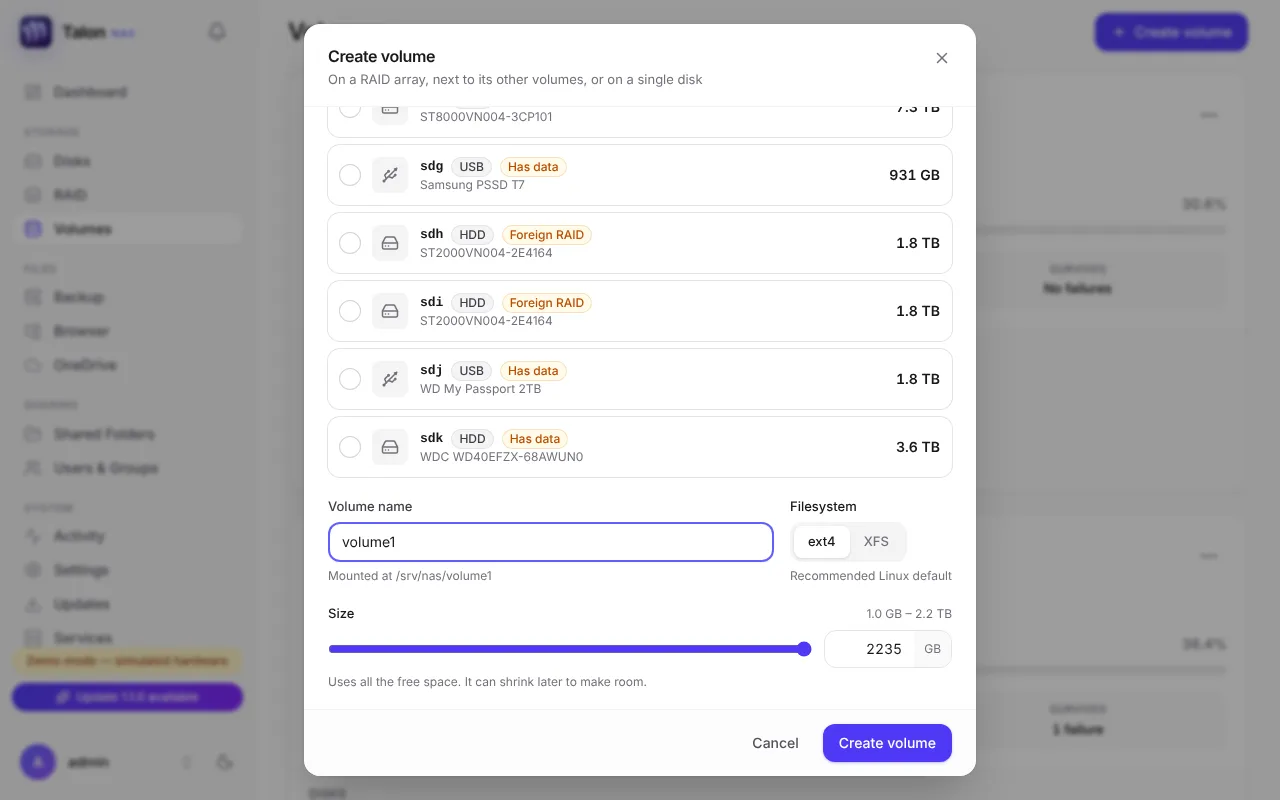
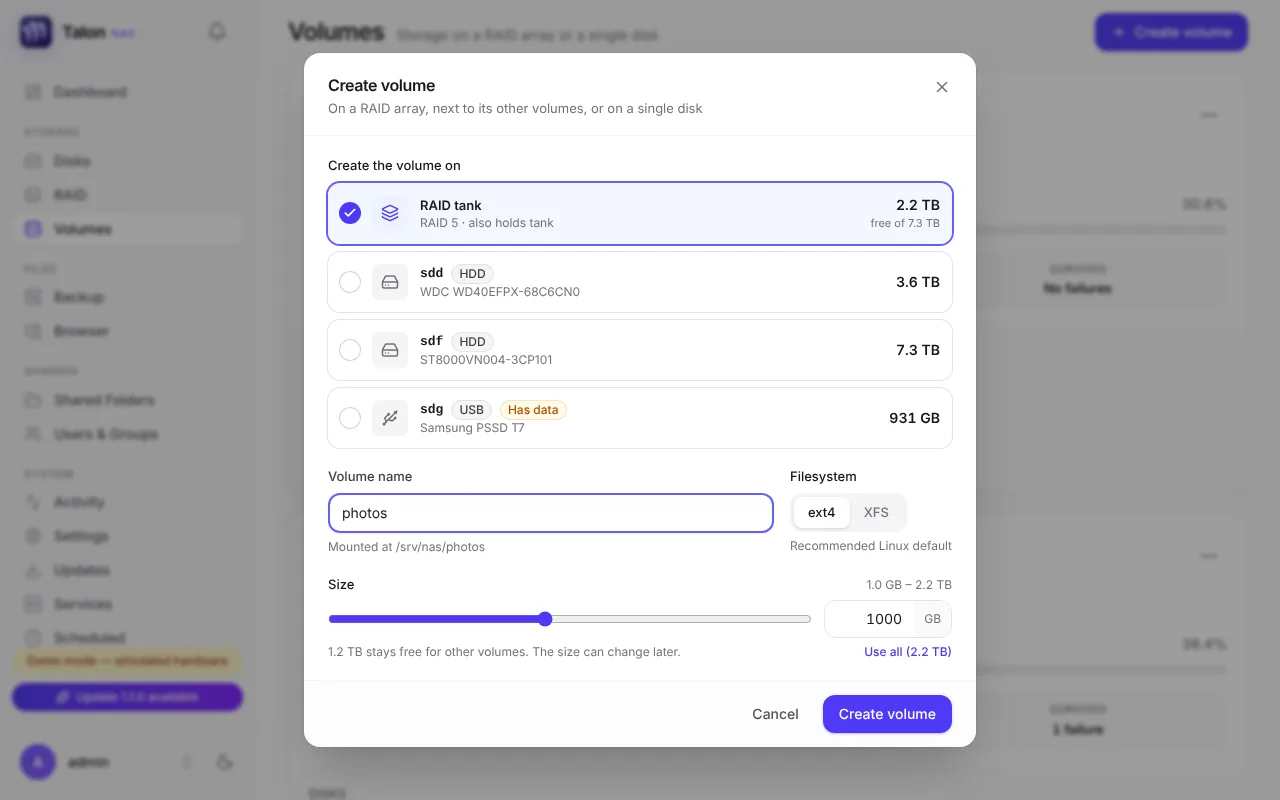
Rebuild the web UI with the new Create volume screenshot
Claude-Session: https://claude.ai/code/session_01PEpGi5GNmUTBZ4DwvNjzZw

diff --git a/backend/talon/__init__.py b/backend/talon/__init__.py
@@ -1,3 +1,3 @@
 """Talon - turn a Debian/Ubuntu/Raspberry Pi OS machine into a NAS."""
 
-__version__ = "1.0.135"
+__version__ = "1.0.136"

diff --git a/CHANGELOG.md b/CHANGELOG.md
@@ -1,3 +1,6 @@
+## 1.0.136
+- Releases 1.0.135: several volumes on one RAID array (its build check had failed)
+
 ## 1.0.135
 - A RAID array can hold several volumes, each with its own size (LVM)
 - Change size: grow a volume while in use, or shrink an ext4 volume to free space
